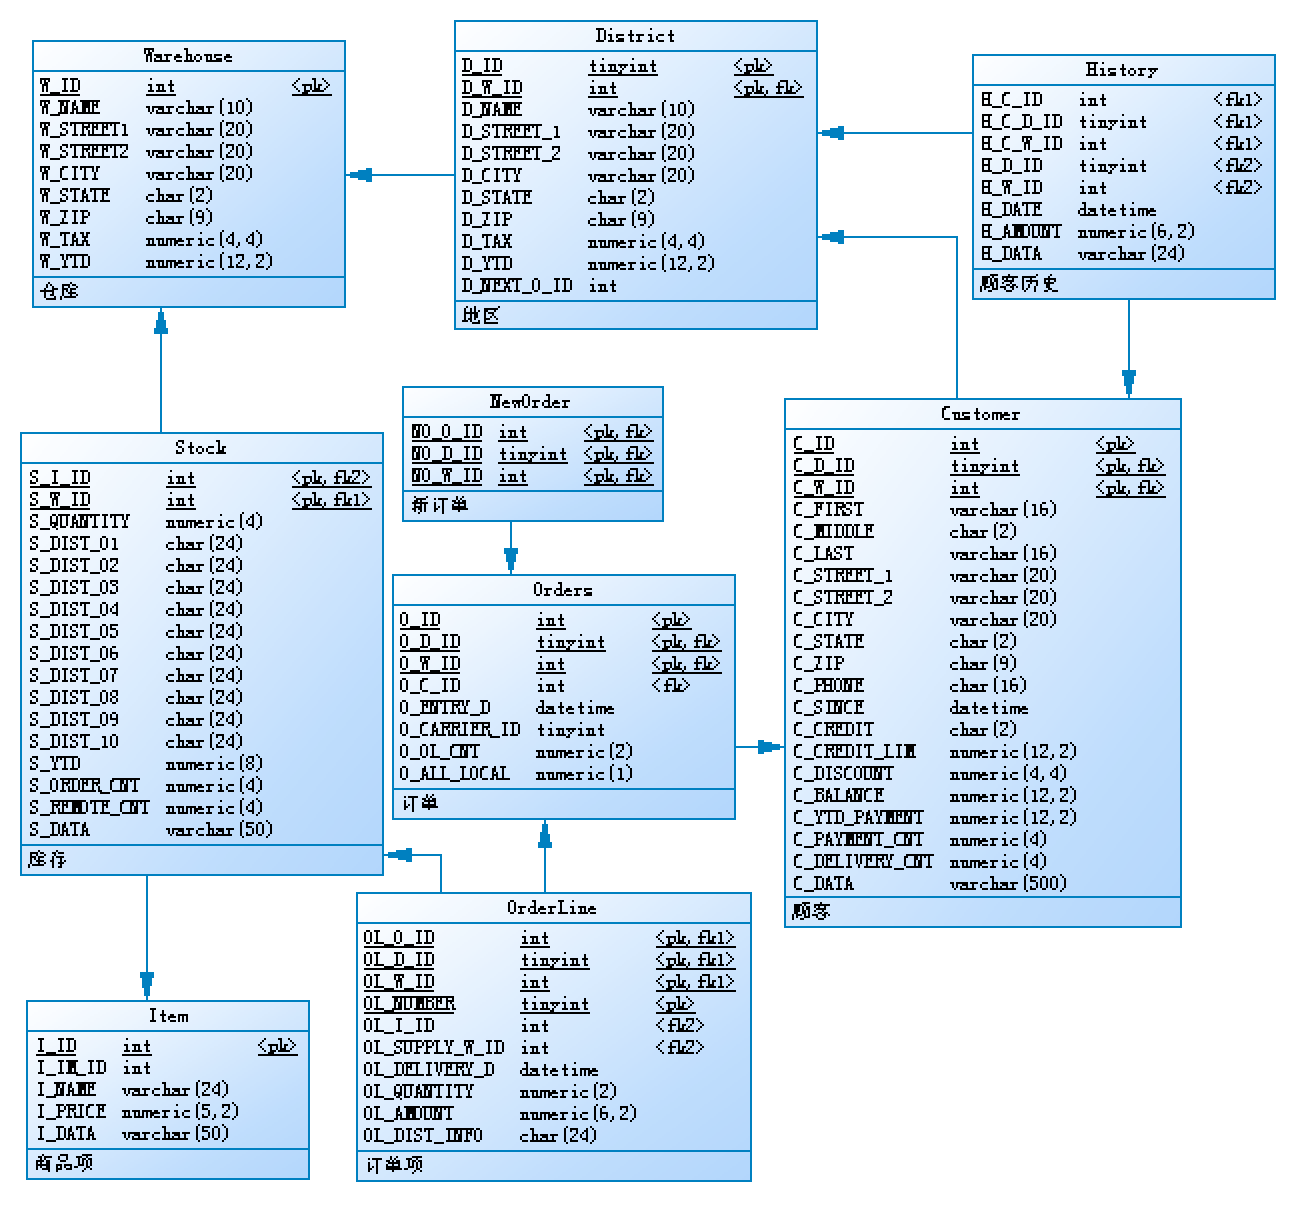
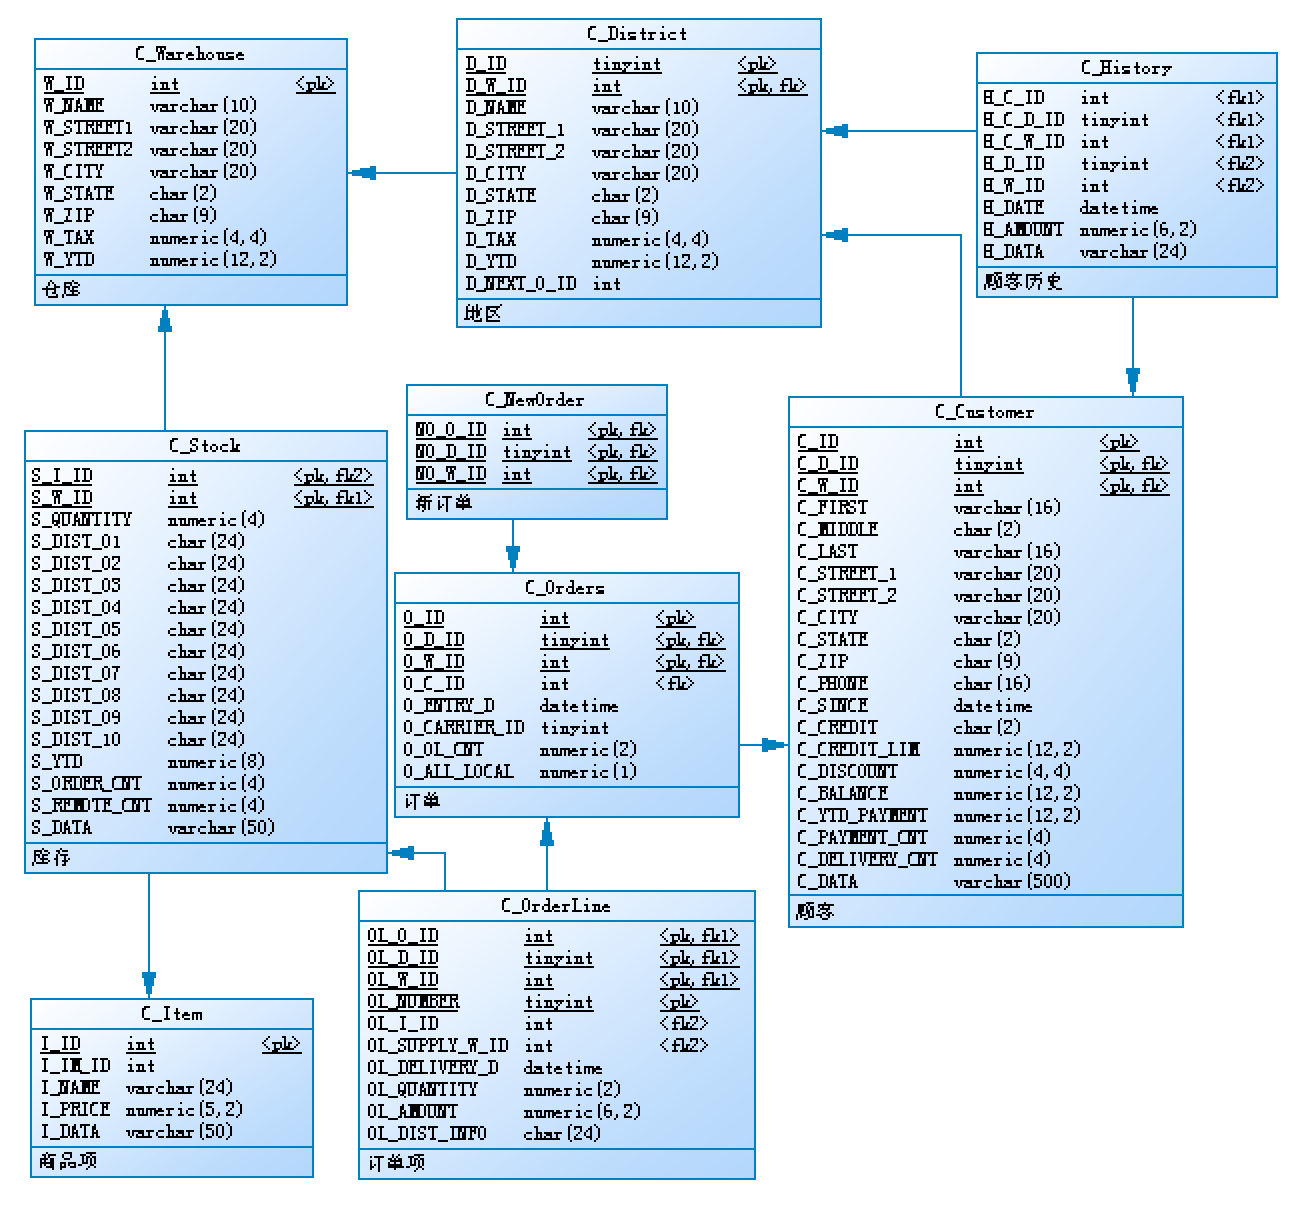
[Benchmark] Fix TPC-C script.

Changed region(s): [[0.0, 0.0, 0.9861, 0.9818], [0.0, 0.0307, 0.2773, 0.3068], [0.0, 0.7977, 0.2465, 0.9818]]

diff --git a/data-pipeline/infrastructure-benchmark/src/test/java/com/spike/giantdataanalysis/benchmark/database/tpc/TPC_C.java b/data-pipeline/infrastructure-benchmark/src/test/java/com/spike/giantdataanalysis/benchmark/database/tpc/TPC_C.java
@@ -61,7 +61,7 @@ public class TPC_C {
     }
 
     String query =
-        "INSERT INTO `Item`(`I_ID`, `I_NAME`,`I_PRICE`,`I_DATA`) VALUES (%1$s,'%2$s',%3$s,'%4$s')";
+        "INSERT INTO `C_Item`(`I_ID`, `I_NAME`,`I_PRICE`,`I_DATA`) VALUES (%1$s,'%2$s',%3$s,'%4$s')";
     Connection connection = JDBCs.connection();
     String i_data = null;
     String postfix = "original";
@@ -85,7 +85,7 @@ public class TPC_C {
     LOG.info("load Warehouse START");
 
     String query =
-        "INSERT INTO `Warehouse` (`W_ID`,`W_NAME`,`W_STREET1`,`W_STREET2`,`W_CITY`,`W_STATE`,`W_ZIP`,`W_TAX`,`W_YTD`) "
+        "INSERT INTO `C_Warehouse` (`W_ID`,`W_NAME`,`W_STREET1`,`W_STREET2`,`W_CITY`,`W_STATE`,`W_ZIP`,`W_TAX`,`W_YTD`) "
             + "VALUES (%1$s,'%2$s','%3$s','%4$s','%5$s','%6$s','%7$s',%8$s,%9$s)";
     Connection connection = JDBCs.connection();
     String sql = null;
@@ -165,7 +165,7 @@ public class TPC_C {
       orig[pos] = true;
     }
 
-    String stockQuery = "INSERT INTO `Stock` (`S_I_ID`,`S_W_ID`,`S_QUANTITY`,"
+    String stockQuery = "INSERT INTO `C_Stock` (`S_I_ID`,`S_W_ID`,`S_QUANTITY`,"
         + "`S_DIST_01`,`S_DIST_02`,`S_DIST_03`,`S_DIST_04`,`S_DIST_05`,`S_DIST_06`,`S_DIST_07`,`S_DIST_08`,`S_DIST_09`,`S_DIST_10`,"
         + "`S_YTD`,`S_ORDER_CNT`,`S_REMOTE_CNT`,`S_DATA`) " + "VALUES (%1$s,%2$s,%3$s,"
         + "'%4$s','%5$s','%6$s','%7$s','%8$s','%9$s','%10$s','%11$s','%12$s','%13$s',"
@@ -197,7 +197,7 @@ public class TPC_C {
 
   static void District(int w_id) {
 
-    String districtQuery = "INSERT INTO `District` (`D_ID`,`D_W_ID`,`D_NAME`,"
+    String districtQuery = "INSERT INTO `C_District` (`D_ID`,`D_W_ID`,`D_NAME`,"
         + "`D_STREET_1`,`D_STREET_2`,`D_CITY`,`D_STATE`,`D_ZIP`,"
         + "`D_TAX`,`D_YTD`,`D_NEXT_O_ID`) " + "VALUES (%1$s,%2$s,'%3$s',"
         + "'%4$s','%5$s','%6$s','%7$s','%8$s'," + "%9$s,%10$s,%11$s)";
@@ -220,14 +220,14 @@ public class TPC_C {
 
   static void Customer(Connection connection, int w_id, int d_id) {
 
-    String query = "INSERT INTO `Customer`(`C_ID`,`C_D_ID`,`C_W_ID`,`C_FIRST`,`C_MIDDLE`,`C_LAST`,"
+    String query = "INSERT INTO `C_Customer`(`C_ID`,`C_D_ID`,`C_W_ID`,`C_FIRST`,`C_MIDDLE`,`C_LAST`,"
         + "`C_STREET_1`,`C_STREET_2`,`C_CITY`,`C_STATE`,`C_ZIP`,`C_PHONE`,`C_SINCE`,`C_CREDIT`,`C_CREDIT_LIM`,"
         + "`C_DISCOUNT`,`C_BALANCE`,`C_DATA`) " + "VALUES (%1$s,%2$s,%3$s,'%4$s','%5$s','%6$s',"
         + "'%7$s','%8$s','%9$s','%10$s','%11$s','%12$s','%13$s','%14$s',%15$s,"
         + "%16$s,%17$s,'%18$s')";
 
     String historyQuery =
-        "INSERT INTO `History`(`H_C_ID`,`H_C_D_ID`,`H_C_W_ID`,`H_D_ID`,`H_W_ID`,`H_DATE`,`H_AMOUNT`,`H_DATA`) "
+        "INSERT INTO `C_History`(`H_C_ID`,`H_C_D_ID`,`H_C_W_ID`,`H_D_ID`,`H_W_ID`,`H_DATE`,`H_AMOUNT`,`H_DATA`) "
             + "VALUES (%1$s,%2$s,%3$s,%4$s,%5$s,'%6$s',%7$s,'%8$s')";
     String sql = null;
     String historySql = null;
@@ -269,19 +269,19 @@ public class TPC_C {
   static void Orders(Connection connection, int w_id, int d_id) {
 
     String orderQuery =
-        "INSERT INTO Orders(`O_ID`,`O_D_ID`,`O_W_ID`,`O_C_ID`,`O_ENTRY_D`,`O_CARRIER_ID`,`O_OL_CNT`,`O_ALL_LOCAL`) "
+        "INSERT INTO `C_Orders`(`O_ID`,`O_D_ID`,`O_W_ID`,`O_C_ID`,`O_ENTRY_D`,`O_CARRIER_ID`,`O_OL_CNT`,`O_ALL_LOCAL`) "
             + "VALUES (%1$s,%2$s,%3$s,%4$s,'%5$s',%6$s,%7$s,%8$s)";
     String orderQueryUnDelivered =
-        "INSERT INTO Orders(`O_ID`,`O_D_ID`,`O_W_ID`,`O_C_ID`,`O_ENTRY_D`,`O_OL_CNT`,`O_ALL_LOCAL`) "
+        "INSERT INTO `C_Orders`(`O_ID`,`O_D_ID`,`O_W_ID`,`O_C_ID`,`O_ENTRY_D`,`O_OL_CNT`,`O_ALL_LOCAL`) "
             + "VALUES (%1$s,%2$s,%3$s,%4$s,'%5$s',%6$s,%7$s)";
     String newOrderQuery =
-        "INSERT INTO `NewOrder`(`NO_O_ID`,`NO_D_ID`,`NO_W_ID`) VALUES (%1$s,%2$s,%3$s)";
+        "INSERT INTO `C_NewOrder`(`NO_O_ID`,`NO_D_ID`,`NO_W_ID`) VALUES (%1$s,%2$s,%3$s)";
     String orderLineUnDelivered =
-        "INSERT INTO `OrderLine`(`OL_O_ID`,`OL_D_ID`,`OL_W_ID`,`OL_NUMBER`,`OL_I_ID`,"
+        "INSERT INTO `C_OrderLine`(`OL_O_ID`,`OL_D_ID`,`OL_W_ID`,`OL_NUMBER`,`OL_I_ID`,"
             + "`OL_SUPPLY_W_ID`,`OL_QUANTITY`,`OL_AMOUNT`,`OL_DIST_INFO`) "
             + "VALUES (%1$s,%2$s,%3$s,%4$s,%5$s,%6$s,%7$s,%8$s,'%9$s')";
     String orderLineQuery =
-        "INSERT INTO `OrderLine`(`OL_O_ID`,`OL_D_ID`,`OL_W_ID`,`OL_NUMBER`,`OL_I_ID`,"
+        "INSERT INTO `C_OrderLine`(`OL_O_ID`,`OL_D_ID`,`OL_W_ID`,`OL_NUMBER`,`OL_I_ID`,"
             + "`OL_SUPPLY_W_ID`,`OL_DELIVERY_D`,`OL_QUANTITY`,`OL_AMOUNT`,`OL_DIST_INFO`) "
             + "VALUES (%1$s,%2$s,%3$s,%4$s,%5$s,%6$s,'%7$s',%8$s,%9$s,'%10$s')";
 
